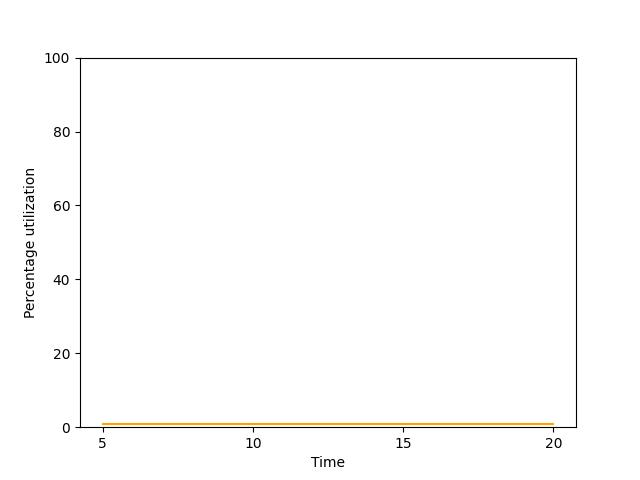
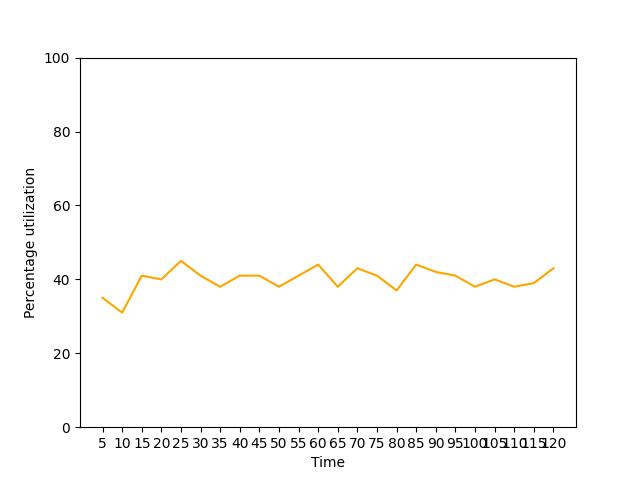
Initial commit

Changed region(s): [[0.1562, 0.875, 0.9062, 0.9375], [0.1562, 0.5312, 0.875, 0.6562]]

diff --git a/lab5/code/test.py b/lab5/code/test.py
@@ -1,12 +1,39 @@
-import matplotlib.pyplot as plt
+from git import Repo
+import os
 
-# Your plotting code here
-# For example:
-plt.plot([1, 2, 3, 4])
-plt.ylabel('Some numbers')
+repo_path = "/home/student/Desktop/netman/git/NetMan/lab5/code"
 
-# Saving the plot as a JPG file
-plt.savefig('plot.jpg', format='jpg')
+# Check if the .git directory exists in the specified path
+if os.path.isdir(os.path.join(repo_path, '.git')):
+    repo = Repo(repo_path)
+else:
+    print(f"No Git repository found at {repo_path}. Please check the path or initialize a repository.")
+    exit(1)
 
-# If you still want to display the plot after saving, you can call plt.show() afterwards
-plt.show()
+# Check if there are any commits in the repository
+if not repo.heads:
+    print("The repository has no commits yet.")
+    # Here, you might want to handle the case where there are no commits
+    # For example, you might want to make an initial commit if appropriate
+else:
+    # Check for unstaged changes
+    changed_files = repo.index.diff(None)
+
+    # Check for staged but uncommitted changes
+    staged_files = repo.index.diff('HEAD')
+
+    if changed_files or staged_files:
+        print('Changes detected.')
+
+        # Stage all changes
+        repo.git.add(A=True)
+
+        # Commit changes
+        repo.index.commit("Detected changes and pushed through NMgithub.py")
+
+        # Push changes to remote
+        origin = repo.remotes.origin
+        origin.push()
+    else:
+        print('No changes detected.')
+

diff --git a/lab5/code/NMgithub.py b/lab5/code/NMgithub.py
@@ -1,20 +1,23 @@
 from git import Repo, Git
+import os
 
-rep_path = "/home/student/Desktop/netman/git/NetMan/lab5/midterm_objective"
-
-repo = Repo(rep_path)
-git = Git(rep_path)
-
-txt_file = 'router_data.txt'
-jpg_file = 'CPU_Utilization_R1.jpg'
+rep_path = "/home/student/Desktop/netman/git/NetMan/lab5/code"
 
 
-diff_txt = repo.git.diff("--", txt_file)
-diff_jpg = repo.git.diff("--", jpg_file)
+if os.path.isdir(os.path.join(rep_path, '.git')):
+    repo = Repo(rep_path)
+    git = Git(rep_path)
+else:
+    print(f"No Git repository found at {rep_path}. Please check the path or initialize a repository.")
+    exit(1)
 
-if diff_txt or diff_jpg:
-    repo.git.add(txt_file)
-    repo.git.add(jpg_file)
+
+changed_files = repo.index.diff(None)
+staged_files = repo.index.diff('HEAD') 
+
+
+if changed_files or staged_files:
+    repo.git.add(A=True)
 
     print('Changes detected')
     repo.index.commit("Detected changes and pushed through NMgithub.py")

diff --git a/lab5/code/NMsnmp.py b/lab5/code/NMsnmp.py
@@ -11,7 +11,7 @@ def plotGraph(key, value):
     time_intr = []
     cpu = []
 
-    for i in range(1,5):
+    for i in range(1,25):
         cpu_stat = sesh.get('1.3.6.1.4.1.9.9.109.1.1.1.1.6.1').value
         time_intr.append(i*5)
         cpu.append(int(cpu_stat)+1)

diff --git a/lab5/code/scapyLoad.py b/lab5/code/scapyLoad.py
@@ -10,4 +10,5 @@ def generate_syn_packets(destination_ip, num_packets):
 destination_ip = '1.1.1.1'
 num_packets = 1000 
 
-generate_syn_packets(destination_ip, num_packets)
+while True:
+    generate_syn_packets(destination_ip, num_packets)
